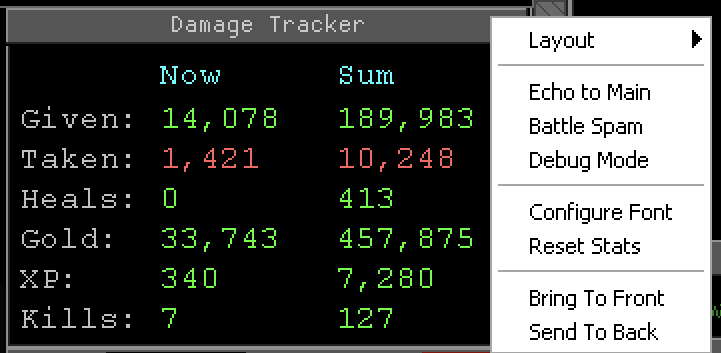
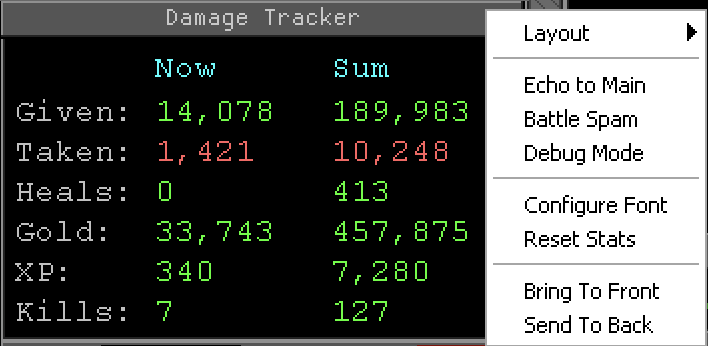
Tweaking the image

diff --git a/README.md b/README.md
@@ -2,7 +2,7 @@
 
 A MUSHclient plugin that tracks combat statistics in real-time, displaying them in a compact miniwindow.
 
-![Damage Tracker Window](docs/window.png)
+<img src="docs/window.png" width="354" alt="Damage Tracker Window">
 
 ## Features
 
